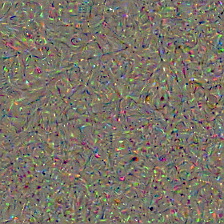
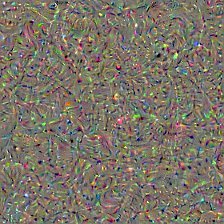
Stuff

diff --git a/tests/callbacks/imaging/test_imaging.py b/tests/callbacks/imaging/test_imaging.py
@@ -14,7 +14,7 @@ plt.ioff()
 class TestHandlers(TestCase):
     @patch('PIL.Image')
     def test_to_file(self, pil):
-        handler = imaging._to_file('test')
+        handler = imaging.imaging._to_file('test')
         mock = MagicMock()
         handler(mock, '')
         mock.mul.assert_called_once_with(255)
@@ -29,7 +29,7 @@ class TestHandlers(TestCase):
 
     @patch('matplotlib.pyplot')
     def test_to_pyplot(self, plt):
-        handler = imaging._to_pyplot()
+        handler = imaging.imaging._to_pyplot()
         mock = MagicMock()
         handler(mock, '')
         mock.mul.assert_called_once_with(255)
@@ -44,23 +44,23 @@ class TestHandlers(TestCase):
 
     @patch('torchbearer.callbacks.tensor_board')
     def test_to_tensorboard(self, tboard):
-        handler = imaging._to_tensorboard('test', log_dir='./logs', comment='comment')
+        handler = imaging.imaging._to_tensorboard('test', log_dir='./logs', comment='comment')
         image = MagicMock()
         handler(image, {torchbearer.EPOCH: 1})
         image.clamp.assert_called_once_with(0, 1)
-        tboard.get_writer.assert_called_once_with('./logs/comment', imaging._to_tensorboard)
+        tboard.get_writer.assert_called_once_with('./logs/comment', imaging.imaging._to_tensorboard)
         tboard.get_writer().add_image.assert_called_once_with('test', image.clamp(), 1)
-        tboard.close_writer.assert_called_once_with('./logs/comment', imaging._to_tensorboard)
+        tboard.close_writer.assert_called_once_with('./logs/comment', imaging.imaging._to_tensorboard)
 
     @patch('torchbearer.callbacks.tensor_board')
     def test_to_visdom(self, tboard):
-        handler = imaging._to_visdom('test', log_dir='./logs', comment='comment', visdom_params='test_params')
+        handler = imaging.imaging._to_visdom('test', log_dir='./logs', comment='comment', visdom_params='test_params')
         image = MagicMock()
         handler(image, {torchbearer.EPOCH: 1})
         image.clamp.assert_called_once_with(0, 1)
-        tboard.get_writer.assert_called_once_with('./logs/comment', imaging._to_visdom, visdom=True, visdom_params='test_params')
+        tboard.get_writer.assert_called_once_with('./logs/comment', imaging.imaging._to_visdom, visdom=True, visdom_params='test_params')
         tboard.get_writer().add_image.assert_called_once_with('test1', image.clamp(), 1)
-        tboard.close_writer.assert_called_once_with('./logs/comment', imaging._to_visdom)
+        tboard.close_writer.assert_called_once_with('./logs/comment', imaging.imaging._to_visdom)
 
 
 class TestImagingCallback(TestCase):
@@ -82,10 +82,10 @@ class TestImagingCallback(TestCase):
         handler.assert_called_once_with('test', 'state')
         self.assertTrue(callback.transform.call_count == 1)
 
-    @patch('torchbearer.callbacks.imaging._to_visdom')
-    @patch('torchbearer.callbacks.imaging._to_tensorboard')
-    @patch('torchbearer.callbacks.imaging._to_pyplot')
-    @patch('torchbearer.callbacks.imaging._to_file')
+    @patch('torchbearer.callbacks.imaging.imaging._to_visdom')
+    @patch('torchbearer.callbacks.imaging.imaging._to_tensorboard')
+    @patch('torchbearer.callbacks.imaging.imaging._to_pyplot')
+    @patch('torchbearer.callbacks.imaging.imaging._to_file')
     def test_simple_methods(self, mock_to_file, mock_to_pyplot, mock_to_tensorboard, mock_to_visdom):
         callback = imaging.ImagingCallback()
         self.assertRaises(NotImplementedError, lambda: callback.on_batch('test'))

diff --git a/torchbearer/callbacks/imaging/deep_inside.py b/torchbearer/callbacks/imaging/deep_inside.py
@@ -24,7 +24,7 @@ class ClassAppearanceModel(imaging.ImagingCallback):
 
     """
     def __init__(self, nimages, nclasses, input_size,
-                 optimizer_factory=lambda params: optim.Adam(params, lr = 0.05),
+                 optimizer_factory=lambda params: optim.SGD(params, lr = 2),
                  logit_key=torchbearer.PREDICTION, prob_key=None, target=RANDOM, steps=1024, transform=None):
         super(ClassAppearanceModel, self).__init__(transform=transform)
 
@@ -57,7 +57,7 @@ class ClassAppearanceModel(imaging.ImagingCallback):
         state[torchbearer.MODEL].eval()
 
         targets = torch.randint(high=self.nclasses, size=(self.nimages, 1)).long().to(state[torchbearer.DEVICE])
-        targets[0][0] = 251
+        targets[0][0] = 951
         for key in self._target_keys:
             state[key] = targets
         targets_hot = torch.zeros(self.nimages, self.nclasses).to(state[torchbearer.DEVICE])
@@ -74,7 +74,7 @@ class ClassAppearanceModel(imaging.ImagingCallback):
             # torch.masked_select(state[self.logit_key][2], targets_hot).exp().sum()
             # state[self.logit_key][0][:, 10, :, :].mean()
 
-            return - 0.005 * torch.masked_select(state[self.logit_key][2], targets_hot).exp().sum() + 0.5 * img.abs().mean() + 0.05 * variation
+            return - torch.masked_select(state[self.logit_key], targets_hot).exp().sum() + 0.001 * img.pow(2).sum()  # + 0.05 * img.abs().mean() + 0.25 * variation
 
         # base_model = state[torchbearer.MODEL].train()
 
@@ -85,18 +85,20 @@ class ClassAppearanceModel(imaging.ImagingCallback):
                 for param in self.base_model.parameters():
                     param.requires_grad = False
                 self.base_model.requires_grad = False
-                input_image = torch.randn(input_size)
+                input_image = torch.zeros(input_size)
                 args = [nimages]
                 for _ in input_size:
                     args.append(1)
                 # args[0] = nimages
-                self.input_batch = nn.Parameter(input_image.unsqueeze(0).repeat(*args) + 0.5, requires_grad=True)
+                self.input_batch = nn.Parameter(input_image.unsqueeze(0).repeat(*args), requires_grad=True)
+                self.val = nn.Parameter(torch.zeros(1000).unsqueeze(0).repeat(*args), requires_grad=False)
 
             def forward(self, _, state):
-                try:
-                    return self.base_model(self.input_batch, state)
-                except TypeError:
-                    return self.base_model(self.input_batch)
+                return self.val
+                # try:
+                #     return self.base_model(self.input_batch, state)
+                # except TypeError:
+                #     return self.base_model(self.input_batch)
 
         model = Model(self.input_size, self.nimages, state[torchbearer.MODEL])
         trial = torchbearer.Trial(model, self.optimizer_factory(filter(lambda p: p.requires_grad, model.parameters())), loss, ['loss'], [])

diff --git a/torchbearer/trial.py b/torchbearer/trial.py
@@ -23,6 +23,7 @@ from torch.optim import Optimizer
 import torchbearer
 from torchbearer import cite
 from torchbearer import State
+from torchbearer import fluent
 from torchbearer.metrics import MetricList
 from torchbearer.callbacks import Callback, CallbackList, Tqdm, AggregatePredictions
 from torchbearer.bases import base_closure
@@ -307,16 +308,6 @@ def inject_callback(callback):
             return res
         return wrapper
     return decorator
-
-
-def fluent(func):
-    """Decorator for class methods which forces return of self.
-    """
-    @functools.wraps(func)
-    def wrapper(self, *args, **kwargs):
-        func(self, *args, **kwargs)
-        return self
-    return wrapper
 
 
 def update_device_and_dtype(state, *args, **kwargs):

diff --git a/docs/_static/examples/class_appearance_model.py b/docs/_static/examples/class_appearance_model.py
@@ -43,8 +43,8 @@ from torchbearer import Trial
 
 VIS = torchbearer.state_key('vis')
 
-trial = Trial(model, callbacks=[torchbearer.callbacks.imaging.ClassAppearanceModel(1, 1000, (3, 224, 224), steps=1024).on_train().to_state(VIS),
-                                torchbearer.callbacks.imaging.FromState(key=VIS, transform=inv_normalize).on_train().to_file('vis.png')])
+trial = Trial(model, callbacks=[torchbearer.callbacks.imaging.ClassAppearanceModel(1, 1000, (3, 224, 224), steps=1000000).on_train().to_state(VIS),
+                                torchbearer.callbacks.imaging.FromState(key=VIS, transform=inv_normalize).on_train().to_file('vis2.png')])
 trial.for_train_steps(1).to('cuda')
 trial.run()
 

diff --git a/torchbearer/callbacks/decorators.py b/torchbearer/callbacks/decorators.py
@@ -338,10 +338,10 @@ def only_if(condition_expr):
             if count == 2:  # Assume Class method
                 def decfcn(o, state):
                     if condition_expr(state):
-                        fcn(o, state)
+                        return fcn(o, state)
             else:  # Assume function of state
                 def decfcn(state):
                     if condition_expr(state):
-                        fcn(state)
+                        return fcn(state)
             return decfcn
     return condition_decorator

diff --git a/torchbearer/bases.py b/torchbearer/bases.py
@@ -309,3 +309,13 @@ def base_closure(x, model, y_pred, y_true, crit, loss, opt):
 
         state[torchbearer.CALLBACK_LIST].on_backward(state)
     return closure
+
+
+def fluent(func):
+    """Decorator for class methods which forces return of self.
+    """
+    @functools.wraps(func)
+    def wrapper(self, *args, **kwargs):
+        func(self, *args, **kwargs)
+        return self
+    return wrapper

diff --git a/docs/conf.py b/docs/conf.py
@@ -24,6 +24,7 @@ autodoc_mock_imports = ['torch', 'torch.nn.utils.clip_grad_norm', 'torchvision',
 
 sys.path.insert(0, os.path.abspath('.'))
 sys.path.insert(0, os.path.abspath('../'))
+sys.path.insert(0, os.path.abspath('../torchbearer/'))
 
 
 # -- General configuration ------------------------------------------------

diff --git a/torchbearer/callbacks/__init__.py b/torchbearer/callbacks/__init__.py
@@ -6,6 +6,13 @@ Base Classes
         :members:
         :undoc-members:
 
+Imaging
+------------------------------------
+
+..  automodule:: torchbearer.callbacks.imaging
+        :members:
+        :undoc-members:
+
 Model Checkpointers
 ------------------------------------
 

diff --git a/torchbearer/__init__.py b/torchbearer/__init__.py
@@ -6,13 +6,6 @@ Trial
         :members:
         :undoc-members:
 
-Model (Deprecated)
-^^^^^^^^^^^^^^^^^^^^^^^^^^^^^^^^^^^^
-
-..  automodule:: torchbearer.torchbearer
-        :members:
-        :undoc-members:
-
 State
 ^^^^^^^^^^^^^^^^^^^^^^^^^^^^^^^^^^^^
 

diff --git a/torchbearer/callbacks/imaging/imaging.py b/torchbearer/callbacks/imaging/imaging.py
@@ -1,7 +1,7 @@
 import torchbearer
 from torchbearer import Callback
 from torchbearer.trial import fluent
-from . import once_per_epoch
+from callbacks import once_per_epoch
 
 import torch
 
